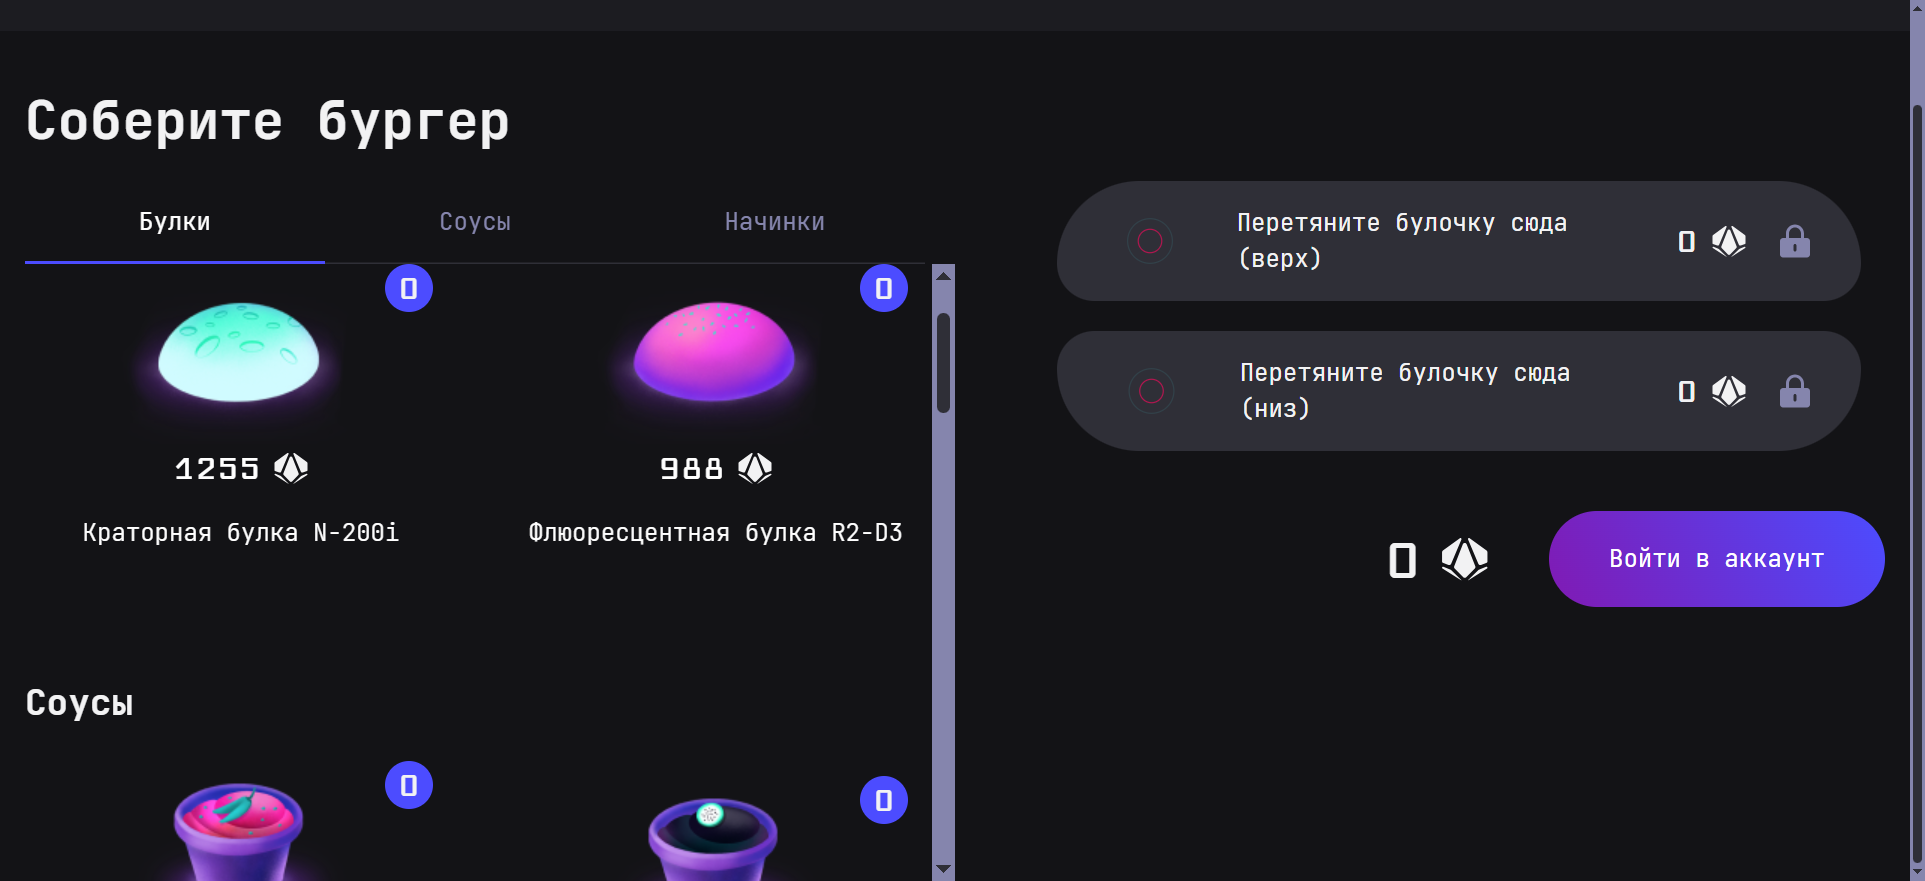
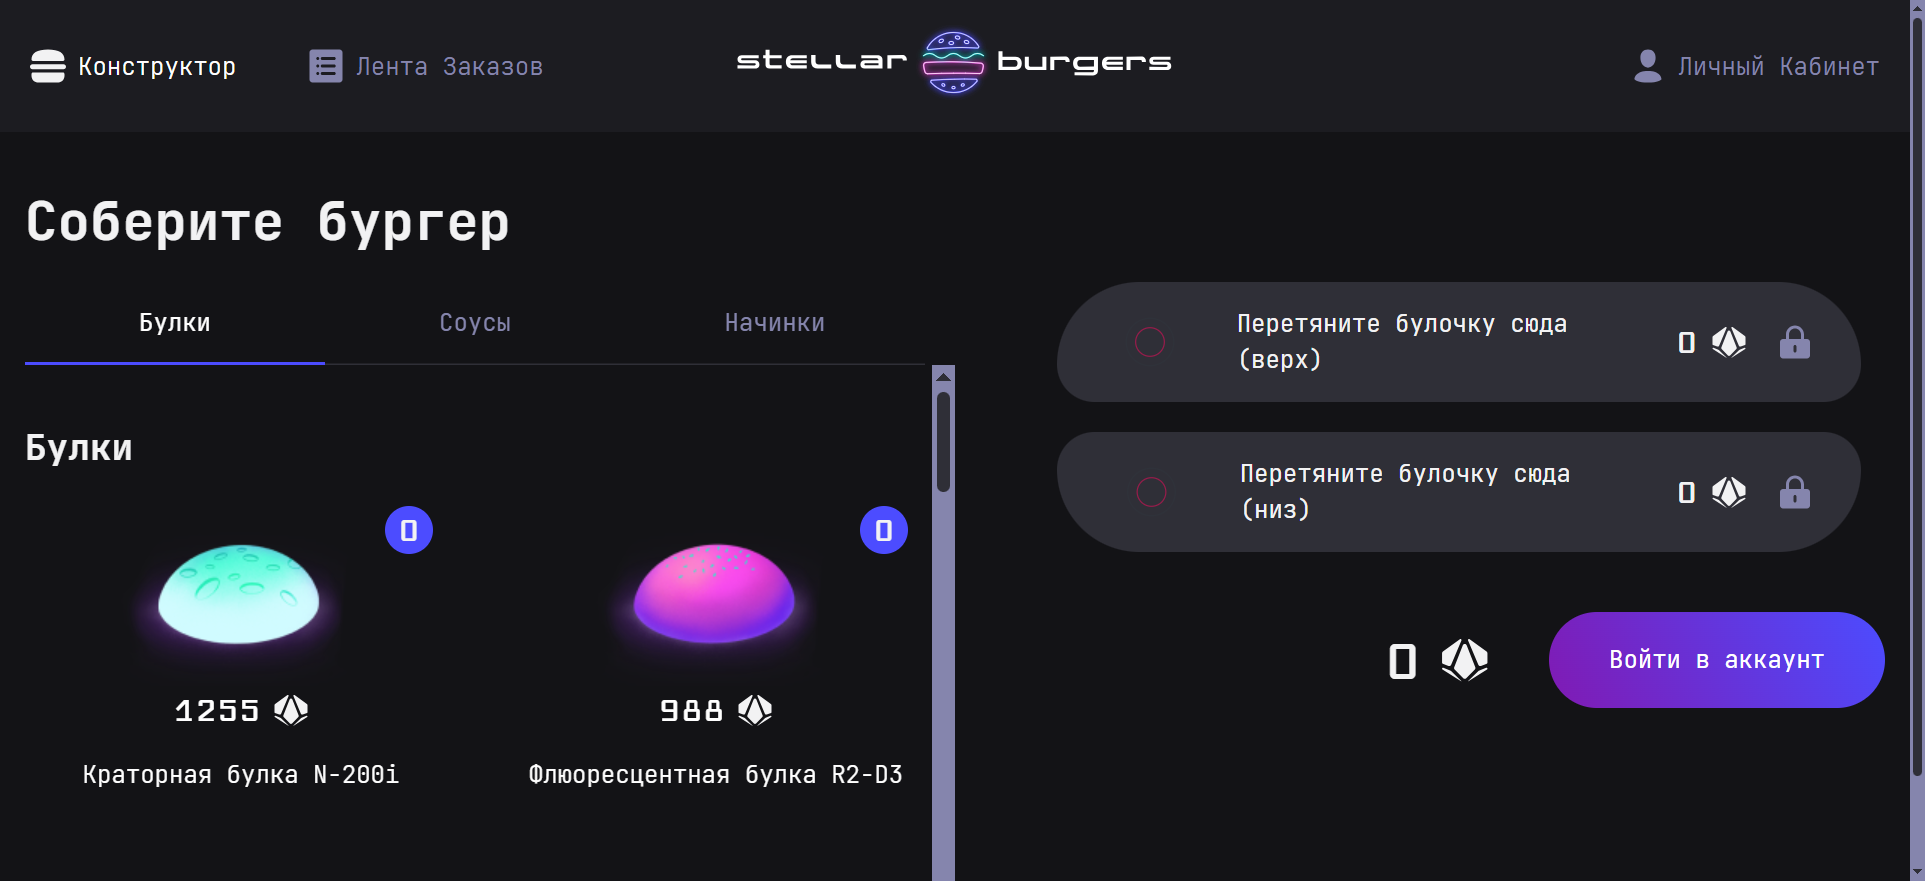
Исправленный task_3

diff --git a/pages/base_page.py b/pages/base_page.py
@@ -1,7 +1,7 @@
 import allure
 from selenium.webdriver.support.ui import WebDriverWait
 from selenium.webdriver.support import expected_conditions as EC
-from selenium.common.exceptions import TimeoutException, NoSuchElementException, InvalidArgumentException
+from selenium.common.exceptions import TimeoutException, InvalidArgumentException
 from selenium.webdriver.common.action_chains import ActionChains
 from utils.urls import BASE_URL
 
@@ -56,7 +56,7 @@ class BasePage:
         return wait.until(condition, message)
     
     def wait_for_page_load(self):
-        """Ждать полной загрузки страницы"""
+        """Ждать полной загрузки страницы (для JS-навигации)"""
         wait = self.create_wait()
         return wait.until(
             lambda driver: driver.execute_script("return document.readyState") == "complete"
@@ -111,7 +111,7 @@ class BasePage:
         """Получить значение из поля ввода"""
         try:
             return self.get_attribute(locator, 'value', timeout) or ""
-        except:
+        except Exception:
             return ""
     
     
@@ -152,31 +152,19 @@ class BasePage:
         """Открыть указанную страницу или базовый URL"""
         target_url = url if url else self.base_url
         
-        
-        if not target_url:
-            raise ValueError(f"URL не может быть пустым. Переданный URL: {target_url}")
-        
-        
-        if not isinstance(target_url, str):
-            raise TypeError(f"URL должен быть строкой. Получен тип: {type(target_url)}")
-        
-        
         if target_url.startswith('/'):
             target_url = BASE_URL + target_url
         
-       
         print(f"Открываю страницу: {target_url}")
         
         try:
             self.driver.get(target_url)
-            self.wait_for_page_load()
         except InvalidArgumentException as e:
             raise InvalidArgumentException(f"Не удалось открыть URL: {target_url}. Ошибка: {e}")
     
     def refresh_page(self):
         """Обновить страницу"""
         self.driver.refresh()
-        self.wait_for_page_load()
     
     def get_current_url(self) -> str:
         """Получить текущий URL страницы"""

diff --git a/pages/order_feed_page.py b/pages/order_feed_page.py
@@ -7,17 +7,17 @@ class OrderFeedPage(BasePage):
 
     @allure.step('Кликнуть на заказ в списке заказов')
     def click_order(self):
-        self.check_element_displayed(OrderFeedPageLocators.ORDER)
-        self.click_on_element(OrderFeedPageLocators.ORDER)
+        self.assert_element_visible(OrderFeedPageLocators.ORDER, "Заказ не отображается")
+        self.click_element(OrderFeedPageLocators.ORDER)
 
     @allure.step('Получение состава заказа')
     def get_text_order_structure(self):
-        self.check_element_displayed(OrderFeedPageLocators.ORDER_STRUCTURE)
-        return self.get_element_text(OrderFeedPageLocators.ORDER_STRUCTURE)
+        self.wait_for_element_visible(OrderFeedPageLocators.ORDER_STRUCTURE)
+        return self.get_text(OrderFeedPageLocators.ORDER_STRUCTURE)
 
     @allure.step('Поиск заказа по номеру')
     def check_order_id(self, order_id, locator):
-        elements = self.get_all_elements(locator)
+        elements = self.find_elements(locator)
         for element in elements:
             if order_id == element.text:
                 return True
@@ -33,11 +33,15 @@ class OrderFeedPage(BasePage):
 
     @allure.step('Получить номер последнего заказа из раздела "В работе"')
     def get_user_order_in_progress(self):
-        self.wait.until(lambda driver: self.get_element_text(OrderFeedPageLocators.NUMBER_IN_PROGRESS) != 'Все текущие заказы готовы!')
-        order = self.get_element_text(OrderFeedPageLocators.NUMBER_IN_PROGRESS)
+        self.wait_for_condition(
+            lambda driver: self.get_text(OrderFeedPageLocators.NUMBER_IN_PROGRESS) != 'Все текущие заказы готов!',
+            message="Заказ в работе не появился"
+        )
+        order = self.get_text(OrderFeedPageLocators.NUMBER_IN_PROGRESS)
         return order.lstrip('0')
 
     @allure.step('Получить количество заказов')
     def get_total_order_count(self, locator):
-        return self.get_element_text(locator)
+        return self.get_text(locator)
+
     

diff --git a/pages/profile_page.py b/pages/profile_page.py
@@ -42,34 +42,17 @@ class ProfilePage(BasePage):
         self.assert_element_visible(ProfilePageLocators.SAVE_BUTTON, "Кнопка «Сохранить» не отображается")
         self.click_element(ProfilePageLocators.SAVE_BUTTON)
 
-    @allure.step('Получение значения поля профиля')
-    def get_profile_field_value(self, locator, field_name, timeout=10) -> str:
-        """Получить значение поля профиля по локатору."""
-        return self.get_input_value(locator, timeout)
-
     @allure.step('Получение имени пользователя')
     def get_user_name(self, timeout=10) -> str:
         """Получить имя пользователя из профиля."""
-        return self.get_profile_field_value(
-            ProfilePageLocators.PROFILE_NAME_INPUT, 
-            "имя", 
-            timeout
-        )
+        return self.get_input_value(ProfilePageLocators.PROFILE_NAME_INPUT, timeout)
 
     @allure.step('Получение email пользователя')
     def get_user_email(self, timeout=10) -> str:
         """Получить email пользователя из профиля."""
-        return self.get_profile_field_value(
-            ProfilePageLocators.PROFILE_EMAIL_INPUT, 
-            "email", 
-            timeout
-        )
+        return self.get_input_value(ProfilePageLocators.PROFILE_EMAIL_INPUT, timeout)
 
     @allure.step('Получение пароля пользователя')
     def get_user_password(self, timeout=10) -> str:
         """Получить пароль пользователя из профиля."""
-        return self.get_profile_field_value(
-            ProfilePageLocators.PROFILE_PASSWORD_INPUT, 
-            "пароль", 
-            timeout
-        )
+        return self.get_input_value(ProfilePageLocators.PROFILE_PASSWORD_INPUT, timeout)

diff --git a/pages/auth_page.py b/pages/auth_page.py
@@ -8,14 +8,10 @@ class AuthPage(BasePage):
 
     @allure.step('Заполнить поле "Email" значением: {email}')
     def input_email_field(self, email):
-        self.assert_element_visible(AuthPageLocators.EMAIL_INPUT, "Поле Email не отображается")
-        self.click_element(AuthPageLocators.EMAIL_INPUT)
         self.input_text(AuthPageLocators.EMAIL_INPUT, email)
 
     @allure.step('Заполнить поле "Пароль"')
     def set_password_field(self, password):
-        self.assert_element_visible(AuthPageLocators.PASSWORD_INPUT, "Поле Пароль не отображается")
-        self.click_element(AuthPageLocators.PASSWORD_INPUT)
         self.input_text(AuthPageLocators.PASSWORD_INPUT, password)
 
     @allure.step('Нажать кнопку "Войти"')

diff --git a/tests/test_recovery_password.py b/tests/test_recovery_password.py
@@ -1,5 +1,4 @@
 import allure
-import pytest
 from pages.auth_page import AuthPage                  
 from pages.recovery_password_page import RecoveryPasswordPage
 from utils.urls import Urls

diff --git a/tests/test_base_page.py b/tests/test_base_page.py
@@ -1,5 +1,4 @@
 import allure
-import pytest
 from pages.main_page import MainPage
 from pages.auth_page import AuthPage
 from utils.urls import BASE_URL, Urls  
